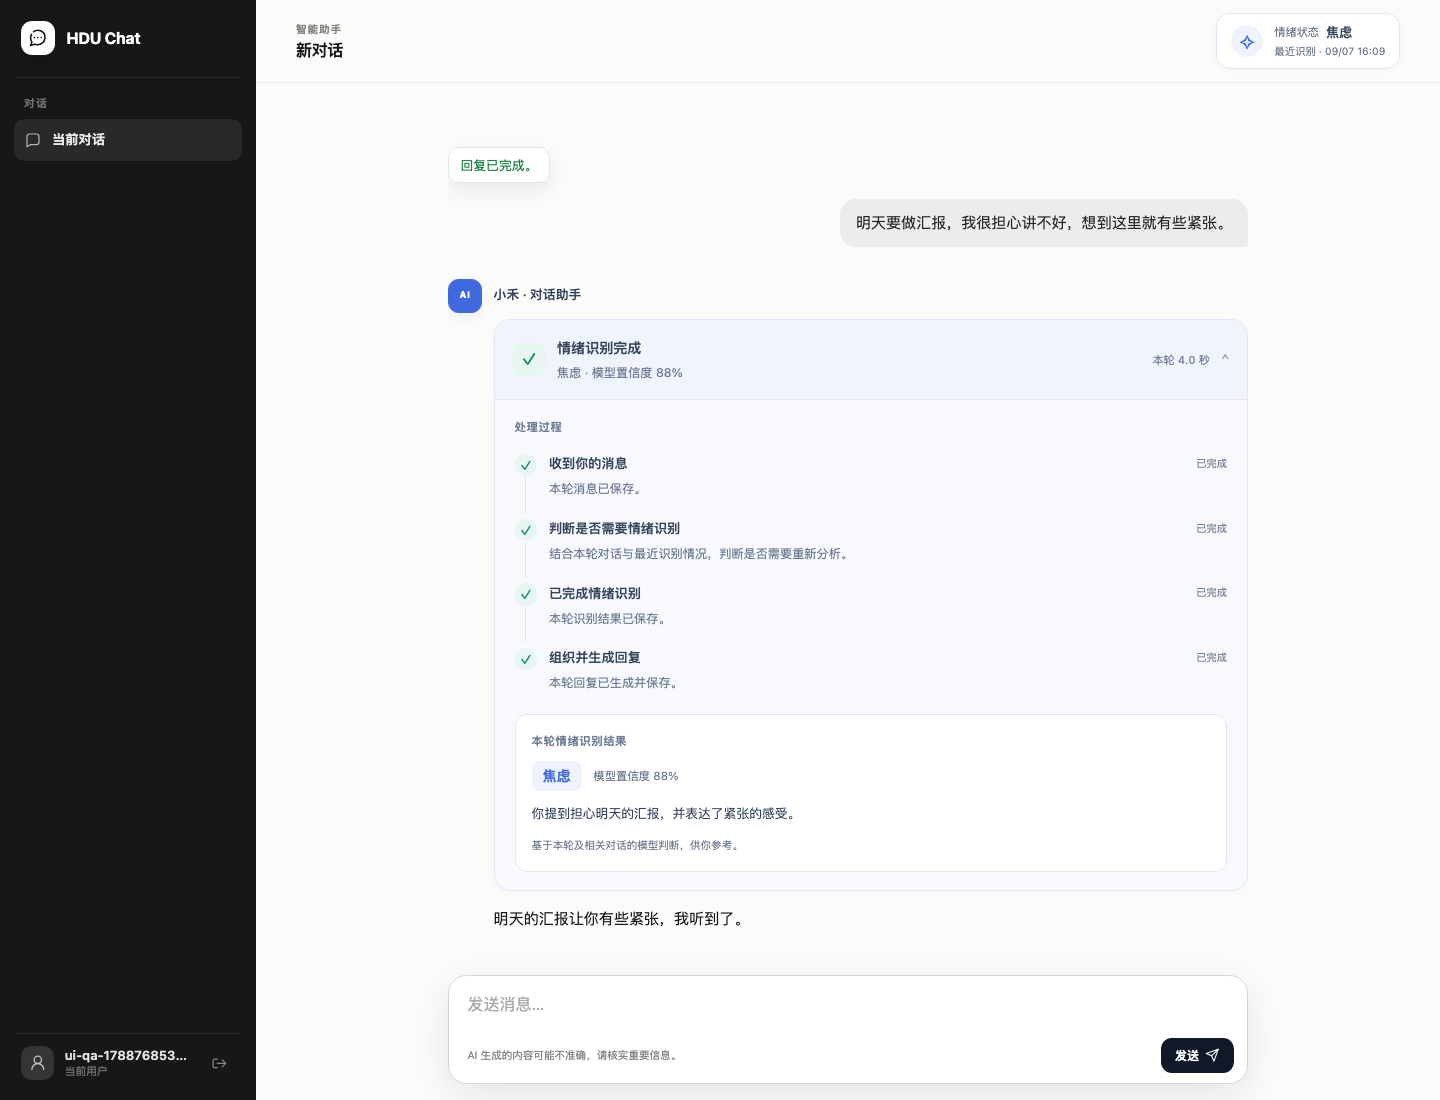
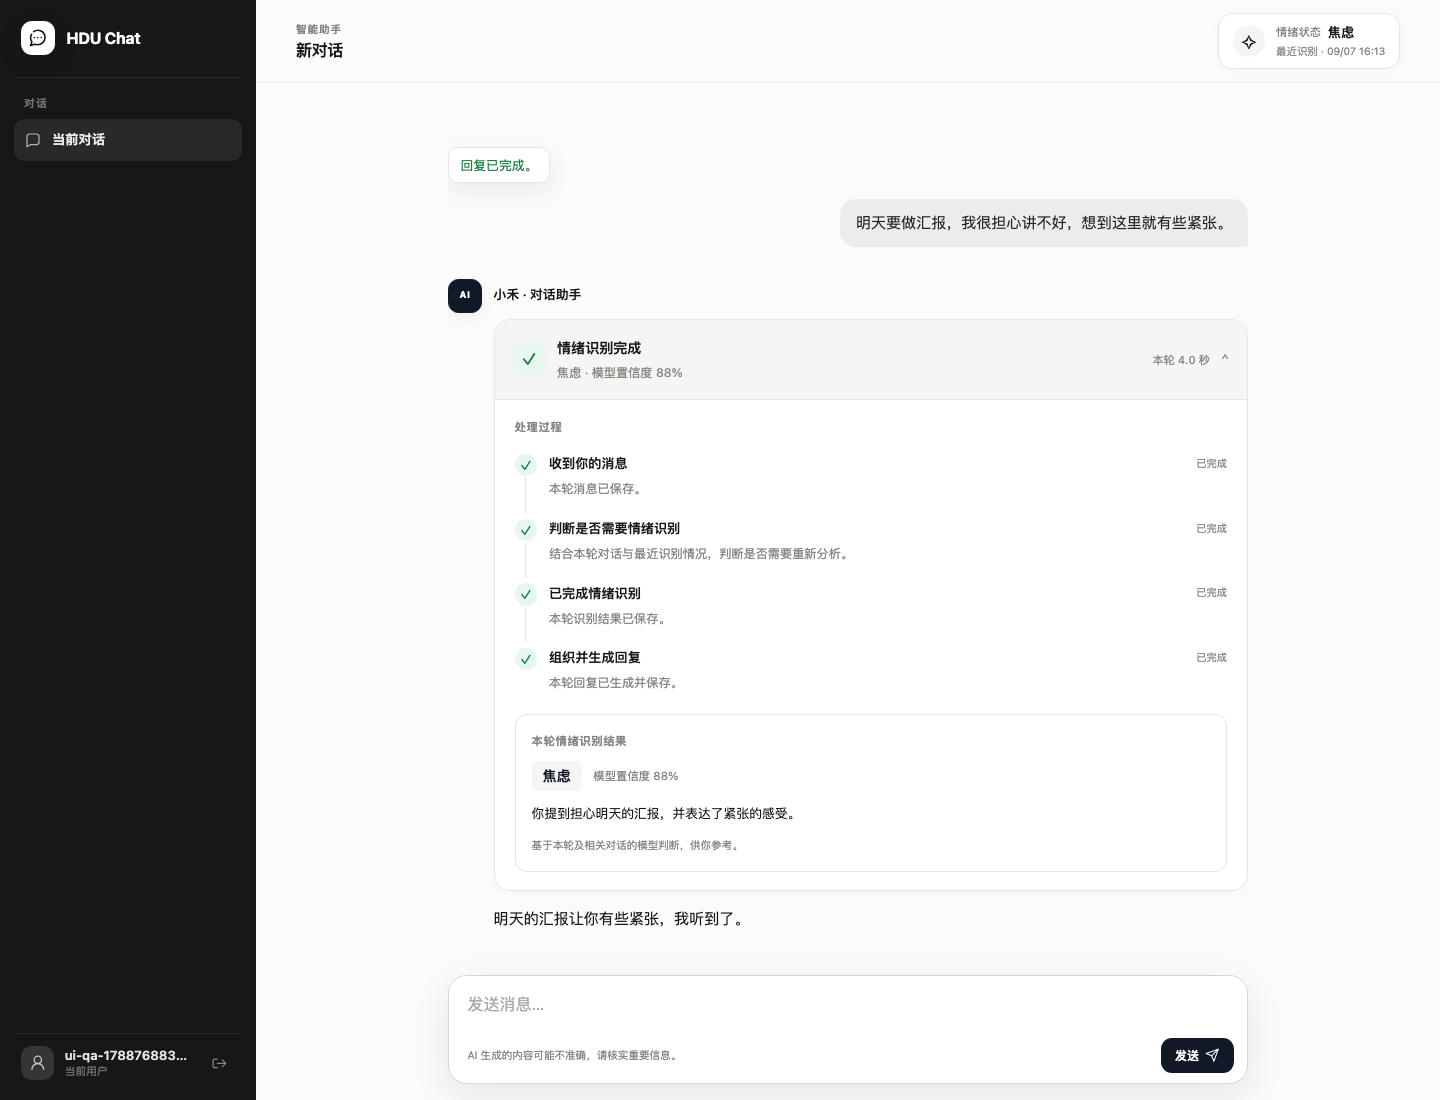
style: align emotion analysis with neutral chat theme

diff --git a/chatbot/static/style.css b/chatbot/static/style.css
@@ -973,12 +973,7 @@ button:disabled {
 
 /* Public processing progress and emotion results share one visual vocabulary. */
 :root {
-  --analysis-accent: #4169df;
-  --analysis-soft: #eef3ff;
-  --analysis-border: #dfe7f5;
-  --analysis-ink: #34435d;
-  --analysis-muted: #6c7a92;
-  --analysis-success: #16886b;
+  --analysis-success: #15803d;
   --analysis-success-soft: #e7f6f0;
 }
 
@@ -988,10 +983,10 @@ button:disabled {
   gap: 0.7rem;
   max-width: 65%;
   padding: 0.6rem 0.85rem;
-  border: 1px solid var(--analysis-border);
+  border: 1px solid var(--border);
   border-radius: 0.9rem;
   background: var(--surface);
-  box-shadow: 0 2px 8px rgb(46 64 105 / 3%);
+  box-shadow: 0 2px 8px rgb(23 23 23 / 3%);
 }
 
 .emotion-orbit {
@@ -1001,21 +996,21 @@ button:disabled {
   width: 2rem;
   height: 2rem;
   border-radius: 50%;
-  background: var(--analysis-soft);
-  color: var(--analysis-accent);
+  background: var(--surface-soft);
+  color: var(--accent);
   font-size: 1.2rem;
 }
 
 .emotion-badge-copy { min-width: 0; }
 .emotion-badge-heading { display: flex; flex-wrap: wrap; align-items: center; gap: 0.45rem; }
-.emotion-badge-heading > span { color: var(--analysis-muted); font-size: 0.7rem; }
-.emotion-badge-heading strong { color: var(--analysis-ink); font-size: 0.82rem; overflow-wrap: anywhere; }
-#emotion-meta { display: block; margin-top: 0.15rem; color: var(--analysis-muted); font-size: 0.65rem; }
-.emotion-badge[data-state="empty"] .emotion-badge-heading strong { color: var(--analysis-muted); font-weight: 500; }
+.emotion-badge-heading > span { color: var(--text-muted); font-size: 0.7rem; }
+.emotion-badge-heading strong { color: var(--text); font-size: 0.82rem; overflow-wrap: anywhere; }
+#emotion-meta { display: block; margin-top: 0.15rem; color: var(--text-muted); font-size: 0.65rem; }
+.emotion-badge[data-state="empty"] .emotion-badge-heading strong { color: var(--text-muted); font-weight: 500; }
 
 .message--assistant article { row-gap: 0.55rem; }
-.message--assistant article::before { grid-row: 1 / span 3; background: var(--analysis-accent); border-color: var(--analysis-accent); color: #fff; }
-.assistant-heading { grid-column: 2; color: var(--analysis-ink); font-size: 0.8rem; font-weight: 650; line-height: 2rem; }
+.message--assistant article::before { grid-row: 1 / span 3; background: var(--accent); border-color: var(--accent); color: #fff; }
+.assistant-heading { grid-column: 2; color: var(--text); font-size: 0.8rem; font-weight: 650; line-height: 2rem; }
 .message--assistant article .message-body { margin-top: 0.3rem; }
 .message--assistant article .message-error { margin-top: 0; }
 .message-error:empty, .message-body:empty { display: none; }
@@ -1024,12 +1019,12 @@ button:disabled {
 .process-card {
   grid-column: 2;
   min-width: 0;
-  border: 1px solid var(--analysis-border);
+  border: 1px solid var(--border);
   border-radius: 1rem;
-  background: #f7f9fe;
-  color: var(--analysis-ink);
+  background: var(--surface);
+  color: var(--text);
   overflow: hidden;
-  box-shadow: 0 3px 12px rgb(40 61 110 / 2%);
+  box-shadow: 0 3px 12px rgb(23 23 23 / 2%);
   font-size: 0.85rem;
 }
 
@@ -1042,8 +1037,8 @@ button:disabled {
   list-style: none;
 }
 .process-summary::-webkit-details-marker { display: none; }
-.process-summary:hover { background: #f0f4fd; }
-.process-summary:focus-visible { outline: 2px solid var(--analysis-accent); outline-offset: -3px; border-radius: 0.85rem; }
+.process-summary:hover { background: var(--surface-soft); }
+.process-summary:focus-visible { outline: 2px solid var(--accent); outline-offset: -3px; border-radius: 0.85rem; }
 .process-symbol {
   display: grid;
   flex: 0 0 auto;
@@ -1051,42 +1046,42 @@ button:disabled {
   height: 2.1rem;
   place-items: center;
   border-radius: 0.7rem;
-  background: var(--analysis-soft);
-  color: var(--analysis-accent);
+  background: var(--surface-soft);
+  color: var(--accent);
   font-size: 1.1rem;
 }
 .process-card[data-state="completed"] .process-symbol { background: var(--analysis-success-soft); color: var(--analysis-success); }
 .process-card[data-state="failed"] .process-symbol { background: #fff0e7; color: #b65a24; }
 .process-heading { flex: 1; min-width: 0; }
 .process-title { display: block; font-size: 0.88rem; font-weight: 650; }
-.process-subtitle { display: block; margin-top: 0.1rem; color: var(--analysis-muted); font-size: 0.76rem; line-height: 1.65; }
-.process-duration { flex: 0 0 auto; font-size: 0.7rem; color: var(--analysis-muted); font-variant-numeric: tabular-nums; }
-.process-chevron { color: #8c98ac; transition: transform 150ms ease; }
+.process-subtitle { display: block; margin-top: 0.1rem; color: var(--text-muted); font-size: 0.76rem; line-height: 1.65; }
+.process-duration { flex: 0 0 auto; font-size: 0.7rem; color: var(--text-muted); font-variant-numeric: tabular-nums; }
+.process-chevron { color: var(--text-muted); transition: transform 150ms ease; }
 .process-card[open] .process-chevron { transform: rotate(180deg); }
-.process-content { border-top: 1px solid var(--analysis-border); padding: 1.1rem 1.25rem 1.15rem; }
-.process-section-label { margin-bottom: 0.95rem; color: var(--analysis-muted); font-size: 0.71rem; font-weight: 650; letter-spacing: 0.05em; }
+.process-content { border-top: 1px solid var(--border); padding: 1.1rem 1.25rem 1.15rem; }
+.process-section-label { margin-bottom: 0.95rem; color: var(--text-muted); font-size: 0.71rem; font-weight: 650; letter-spacing: 0.05em; }
 .process-steps { padding: 0; margin: 0; list-style: none; }
 .process-step { position: relative; display: flex; gap: 0.75rem; padding-bottom: 1.1rem; }
 .process-step:last-child { padding-bottom: 0; }
-.process-step:not(:last-child)::after { position: absolute; top: 1.55rem; bottom: 0.25rem; left: 0.68rem; width: 1px; background: #dce4f2; content: ""; }
-.step-mark { z-index: 1; display: grid; flex: 0 0 auto; place-items: center; width: 1.4rem; height: 1.4rem; margin-top: 0.1rem; border-radius: 50%; background: #eaf0fb; color: #8093b5; font-size: 0.85rem; }
+.process-step:not(:last-child)::after { position: absolute; top: 1.55rem; bottom: 0.25rem; left: 0.68rem; width: 1px; background: var(--border); content: ""; }
+.step-mark { z-index: 1; display: grid; flex: 0 0 auto; place-items: center; width: 1.4rem; height: 1.4rem; margin-top: 0.1rem; border-radius: 50%; background: var(--surface-soft); color: var(--text-muted); font-size: 0.85rem; }
 .process-step[data-state="completed"] .step-mark { background: var(--analysis-success-soft); color: var(--analysis-success); }
 .process-step[data-state="failed"] .step-mark { background: #fff0e7; color: #b65a24; }
-.process-step[data-state="running"] .step-mark { background: var(--analysis-soft); }
-.process-step[data-state="running"] .step-mark::after { content: ""; width: 0.65rem; height: 0.65rem; border: 2px solid #b9cafa; border-top-color: var(--analysis-accent); border-radius: 50%; animation: process-spin 900ms linear infinite; }
+.process-step[data-state="running"] .step-mark { background: var(--surface-soft); }
+.process-step[data-state="running"] .step-mark::after { content: ""; width: 0.65rem; height: 0.65rem; border: 2px solid var(--border-strong); border-top-color: var(--accent); border-radius: 50%; animation: process-spin 900ms linear infinite; }
 .step-copy { flex: 1; min-width: 0; }
 .step-title-row { display: flex; align-items: center; flex-wrap: wrap; gap: 0.5rem; }
 .step-title { font-weight: 600; font-size: 0.82rem; }
-.step-state { margin-left: auto; color: var(--analysis-muted); font-size: 0.64rem; white-space: nowrap; }
-.process-step[data-state="running"] .step-state { color: var(--analysis-accent); }
-.step-description { margin-top: 0.18rem; color: var(--analysis-muted); font-size: 0.76rem; line-height: 1.75; }
-.emotion-result { margin-top: 1.25rem; padding: 1rem; border: 1px solid var(--analysis-border); border-radius: 0.75rem; background: var(--surface); }
+.step-state { margin-left: auto; color: var(--text-muted); font-size: 0.64rem; white-space: nowrap; }
+.process-step[data-state="running"] .step-state { color: var(--accent); }
+.step-description { margin-top: 0.18rem; color: var(--text-muted); font-size: 0.76rem; line-height: 1.75; }
+.emotion-result { margin-top: 1.25rem; padding: 1rem; border: 1px solid var(--border); border-radius: 0.75rem; background: var(--surface); }
 .emotion-result .process-section-label { margin-bottom: 0.65rem; }
 .emotion-result-row { display: flex; flex-wrap: wrap; align-items: center; gap: 0.7rem; }
-.emotion-chip { padding: 0.17rem 0.7rem; border-radius: 0.45rem; background: var(--analysis-soft); color: var(--analysis-accent); font-size: 0.88rem; font-weight: 650; }
-.emotion-confidence { color: var(--analysis-muted); font-size: 0.71rem; }
-.emotion-evidence { margin-top: 0.7rem; color: var(--analysis-ink); font-size: 0.8rem; line-height: 1.8; white-space: pre-wrap; }
-.emotion-footnote { margin-top: 0.7rem; color: var(--analysis-muted); font-size: 0.66rem; }
+.emotion-chip { padding: 0.17rem 0.7rem; border-radius: 0.45rem; background: var(--surface-soft); color: var(--accent); font-size: 0.88rem; font-weight: 650; }
+.emotion-confidence { color: var(--text-muted); font-size: 0.71rem; }
+.emotion-evidence { margin-top: 0.7rem; color: var(--text); font-size: 0.8rem; line-height: 1.8; white-space: pre-wrap; }
+.emotion-footnote { margin-top: 0.7rem; color: var(--text-muted); font-size: 0.66rem; }
 @keyframes process-spin { to { transform: rotate(360deg); } }
 
 @media (max-width: 760px) {
@@ -1117,3 +1112,6 @@ button:disabled {
   .chat-main { height: calc(100dvh - 3.8rem); min-height: 0; grid-template-rows: auto minmax(0, 1fr) auto; }
   .chat-header { top: auto; }
 }
+
+.chat-status[data-state="pending"],
+.chat-status[data-state="streaming"] { color: var(--text-soft); }

diff --git a/docs/verification/emotion-ui/README.md b/docs/verification/emotion-ui/README.md
@@ -69,3 +69,9 @@ node tests/ui/emotion_browser.cjs
 ## 提交边界
 
 原目录与 `main` 保持不变；本次仅在任务工作树实现并提交。不合并、不推送、不替换现有运行服务。没有启动额外子代理；最终差异由本任务直接审查。
+
+## 2026-09-07 配色调整
+
+根据页面一致性反馈，将分析卡片、右上角情绪状态、情绪标签、头像和进度指示改为直接复用页面的 `--surface`、`--surface-soft`、`--border`、`--text`、`--text-muted` 与 `--accent`，移除单独的浅蓝配色。完成和失败仍使用小范围语义提示色。本次只修改样式，沿用同一套交互流程。
+
+本次重新运行 `tests/ui/emotion_browser.cjs`，全部浏览器场景通过；桌面和手机截图已更新并人工检查，`git diff --check` 通过。此次为纯样式调整，未重复运行 Python 全量测试。
